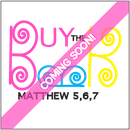
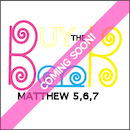
Updated left nav images with white backgrounds; adjusted text on left nav

diff --git a/src/css/LeftBar.css b/src/css/LeftBar.css
@@ -7,10 +7,11 @@
 .sidebar-text-block {
     font-family: Geneva;
     font-weight: bold;
-    text-transform: uppercase;
-    text-align: justify;
+    /*text-transform: uppercase;*/
+    text-align: center;
+    line-height: 110%;
     /*text-justify: inter-character;*/
-    font-size: .8vw;
+    font-size: .6vw;
 }
 
 .sideBar-form-text {
